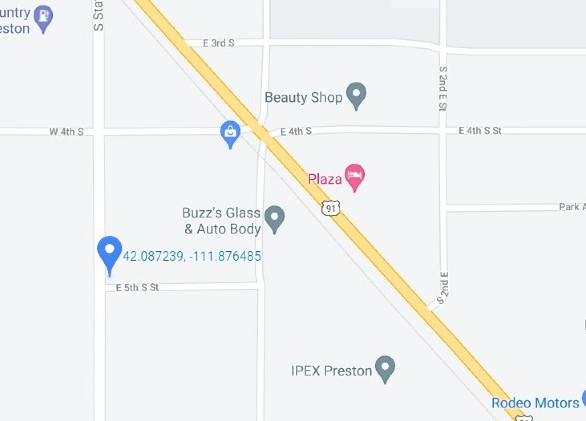
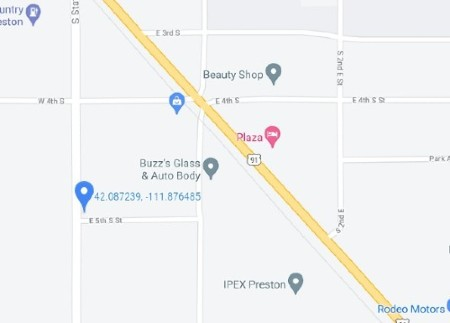
responsiveness

diff --git a/lesson11/preston.html b/lesson11/preston.html
@@ -100,7 +100,11 @@
     <div class="contact">
       <div class="contact-header">
       <h3>Contact Information</h3></div>
-      <img class="map" src="images/preston-map.jpg" alt="map of Preston, Idaho">
+      <picture>
+        <source srcset="images/preston-map-smaller.jpg" media="(max-width: 839px)">
+        <source srcset="images/preston-map.jpg" media="(min-width: 840px)">
+        <img class="map" src="images/preston-map-smaller.jpg" alt="map of Preston, Idaho">
+      </picture>
       <p><strong>Southeast Idaho News</strong><br>
         555 State St.<br>
         Preston, ID 83263<br>

diff --git a/lesson11/stormcenter.html b/lesson11/stormcenter.html
@@ -100,7 +100,11 @@
     <div class="contact">
       <div class="contact-header">
       <h3>Contact Information</h3></div>
-      <img class="map" src="images/preston-map.jpg" alt="map of Preston, Idaho">
+      <picture>
+        <source srcset="images/preston-map-smaller.jpg" media="(max-width: 839px)">
+        <source srcset="images/preston-map.jpg" media="(min-width: 840px)">
+        <img class="map" src="images/preston-map-smaller.jpg" alt="map of Preston, Idaho">
+      </picture>
       <p><strong>Southeast Idaho News</strong><br>
         555 State St.<br>
         Preston, ID 83263<br>

diff --git a/lesson11/fishhaven.html b/lesson11/fishhaven.html
@@ -93,7 +93,11 @@
     <div class="contact">
       <div class="contact-header">
       <h3>Contact Information</h3></div>
-      <img class="map" src="images/preston-map.jpg" alt="map of Preston, Idaho">
+      <picture>
+        <source srcset="images/preston-map-smaller.jpg" media="(max-width: 839px)">
+        <source srcset="images/preston-map.jpg" media="(min-width: 840px)">
+        <img class="map" src="images/preston-map-smaller.jpg" alt="map of Preston, Idaho">
+      </picture>
       <p><strong>Southeast Idaho News</strong><br>
         555 State St.<br>
         Preston, ID 83263<br>

diff --git a/lesson11/gallery.html b/lesson11/gallery.html
@@ -97,7 +97,11 @@
     <div class="contact">
       <div class="contact-header">
       <h3>Contact Information</h3></div>
-      <img class="map" src="images/preston-map.jpg" alt="map of Preston, Idaho">
+      <picture>
+        <source srcset="images/preston-map-smaller.jpg" media="(max-width: 839px)">
+        <source srcset="images/preston-map.jpg" media="(min-width: 840px)">
+        <img class="map" src="images/preston-map-smaller.jpg" alt="map of Preston, Idaho">
+      </picture>
       <p><strong>Southeast Idaho News</strong><br>
         555 State St.<br>
         Preston, ID 83263<br>

diff --git a/lesson11/index.html b/lesson11/index.html
@@ -56,7 +56,11 @@
     <div class="contact">
       <div class="contact-header">
       <h3>Contact Information</h3></div>
-      <img class="map" src="images/preston-map.jpg" alt="map of Preston, Idaho">
+      <picture>
+        <source srcset="images/preston-map-smaller.jpg" media="(max-width: 839px)">
+        <source srcset="images/preston-map.jpg" media="(min-width: 840px)">
+        <img class="map" src="images/preston-map-smaller.jpg" alt="map of Preston, Idaho">
+      </picture>
       <p><strong>Southeast Idaho News</strong><br>
         555 State St.<br>
         Preston, ID 83263<br>

diff --git a/lesson11/sodasprings.html b/lesson11/sodasprings.html
@@ -93,7 +93,11 @@
     <div class="contact">
       <div class="contact-header">
       <h3>Contact Information</h3></div>
-      <img class="map" src="images/preston-map.jpg" alt="map of Preston, Idaho">
+      <picture>
+        <source srcset="images/preston-map-smaller.jpg" media="(max-width: 839px)">
+        <source srcset="images/preston-map.jpg" media="(min-width: 840px)">
+        <img class="map" src="images/preston-map-smaller.jpg" alt="map of Preston, Idaho">
+      </picture>
       <p><strong>Southeast Idaho News</strong><br>
         555 State St.<br>
         Preston, ID 83263<br>

diff --git a/lesson11/thanks.html b/lesson11/thanks.html
@@ -43,7 +43,11 @@
     <div class="contact">
       <div class="contact-header">
       <h3>Contact Information</h3></div>
-      <img class="map" src="images/preston-map.jpg" alt="map of Preston, Idaho">
+      <picture>
+        <source srcset="images/preston-map-smaller.jpg" media="(max-width: 839px)">
+        <source srcset="images/preston-map.jpg" media="(min-width: 840px)">
+        <img class="map" src="images/preston-map-smaller.jpg" alt="map of Preston, Idaho">
+      </picture>
       <p><strong>Southeast Idaho News</strong><br>
         555 State St.<br>
         Preston, ID 83263<br>
